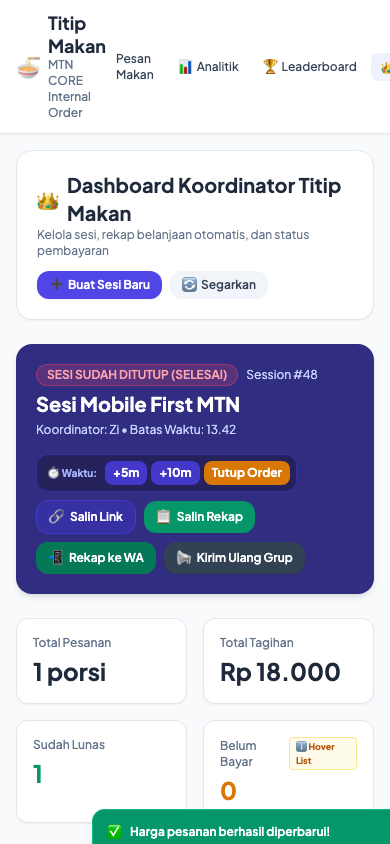
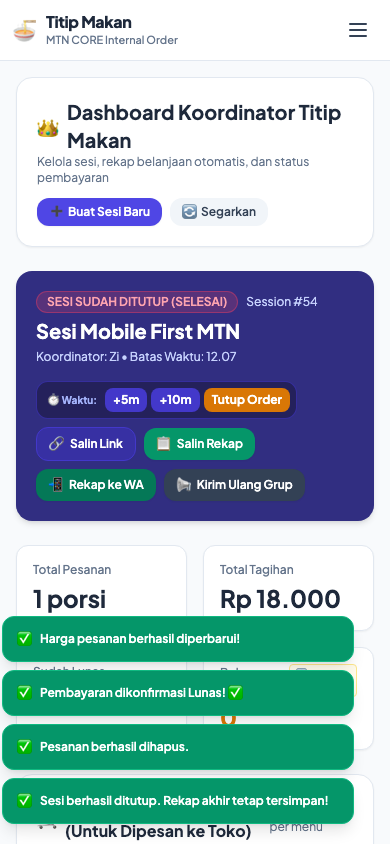
feat(navigation): implement responsive mobile hamburger menu and fix horizontal offset

diff --git a/src/titip_makan/templates/base.html b/src/titip_makan/templates/base.html
@@ -12,30 +12,96 @@
         body { font-family: 'Plus Jakarta Sans', sans-serif; }
     </style>
 </head>
-<body class="bg-slate-50 text-slate-900 min-h-screen flex flex-col">
-    <!-- Navigation Bar -->
-    <header class="bg-white border-b border-slate-200 sticky top-0 z-30 shadow-sm">
-        <div class="max-w-4xl mx-auto px-4 py-3 flex items-center justify-between">
-            <a href="/" class="flex items-center space-x-2">
-                <span class="text-2xl">🍜</span>
-                <div>
-                    <h1 class="font-bold text-lg leading-tight text-slate-800">Titip Makan</h1>
-                    <p class="text-xs text-slate-500 font-medium">MTN CORE Internal Order</p>
+<body class="bg-slate-50 text-slate-900 min-h-screen flex flex-col overflow-x-hidden">
+    <!-- Top Navigation Bar -->
+    <header class="bg-white/95 backdrop-blur-md border-b border-slate-200 sticky top-0 z-30 shadow-xs">
+        <div class="max-w-4xl mx-auto px-3 sm:px-4 py-2.5 sm:py-3 flex items-center justify-between gap-2">
+            <!-- Brand / Logo -->
+            <a href="/" class="flex items-center space-x-2.5 min-w-0 group" aria-label="Beranda Titip Makan">
+                <span class="text-2xl sm:text-3xl flex-none transform group-hover:scale-105 transition-transform">🍜</span>
+                <div class="min-w-0">
+                    <h1 class="font-extrabold text-base sm:text-lg leading-tight text-slate-800 truncate tracking-tight">Titip Makan</h1>
+                    <p class="text-[11px] sm:text-xs text-slate-500 font-medium truncate">MTN CORE Internal Order</p>
                 </div>
             </a>
-            <div class="flex items-center space-x-1 sm:space-x-2 text-xs sm:text-sm font-medium">
-                <a href="/" class="px-2.5 py-1.5 rounded-lg hover:bg-slate-100 text-slate-700 transition">Pesan Makan</a>
-                <a href="/history" class="px-2.5 py-1.5 rounded-lg hover:bg-slate-100 text-slate-700 transition flex items-center gap-1">
-                    <span>📊</span> <span class="hidden sm:inline">Riwayat &</span> Analitik
+
+            <!-- Desktop Navigation Menu (Visible on md and above) -->
+            <nav class="hidden md:flex items-center space-x-1 sm:space-x-1.5 text-xs sm:text-sm font-medium flex-none" aria-label="Navigasi Utama">
+                <a href="/" id="nav-pesan" class="nav-item px-3 py-1.5 rounded-lg hover:bg-slate-100 text-slate-700 transition flex items-center gap-1.5">
+                    <span>🍜</span> <span>Pesan Makan</span>
                 </a>
-                <a href="/leaderboard" class="px-2.5 py-1.5 rounded-lg hover:bg-slate-100 text-slate-700 transition flex items-center gap-1">
-                    <span>🏆</span> Leaderboard
+                <a href="/history" id="nav-history" class="nav-item px-3 py-1.5 rounded-lg hover:bg-slate-100 text-slate-700 transition flex items-center gap-1.5">
+                    <span>📊</span> <span>Riwayat & Analitik</span>
                 </a>
-                <a href="/coordinator" class="px-2.5 py-1.5 rounded-lg bg-indigo-50 text-indigo-600 hover:bg-indigo-100 transition flex items-center gap-1">
-                    <span>👑</span> Koordinator
+                <a href="/leaderboard" id="nav-leaderboard" class="nav-item px-3 py-1.5 rounded-lg hover:bg-slate-100 text-slate-700 transition flex items-center gap-1.5">
+                    <span>🏆</span> <span>Leaderboard</span>
                 </a>
+                <a href="/coordinator" id="nav-coordinator" class="nav-item px-3 py-1.5 rounded-lg bg-indigo-50 text-indigo-600 hover:bg-indigo-100 transition flex items-center gap-1.5 font-semibold">
+                    <span>👑</span> <span>Koordinator</span>
+                </a>
+            </nav>
+
+            <!-- Mobile Hamburger Toggle Button (Visible on screens < md) -->
+            <div class="flex items-center md:hidden flex-none">
+                <button id="mobile-menu-btn" type="button" class="inline-flex items-center justify-center p-2 rounded-xl text-slate-700 hover:text-slate-900 hover:bg-slate-100 focus:outline-none focus:ring-2 focus:ring-indigo-500 transition-colors" aria-label="Buka Menu Navigasi" aria-expanded="false" aria-controls="mobile-menu">
+                    <!-- Hamburger 3-bar icon -->
+                    <svg id="menu-icon-bars" class="w-6 h-6" fill="none" stroke="currentColor" viewBox="0 0 24 24">
+                        <path stroke-linecap="round" stroke-linejoin="round" stroke-width="2" d="M4 6h16M4 12h16M4 18h16"></path>
+                    </svg>
+                    <!-- Close (X) icon -->
+                    <svg id="menu-icon-close" class="w-6 h-6 hidden" fill="none" stroke="currentColor" viewBox="0 0 24 24">
+                        <path stroke-linecap="round" stroke-linejoin="round" stroke-width="2" d="M6 18L18 6M6 6l12 12"></path>
+                    </svg>
+                </button>
             </div>
         </div>
+
+        <!-- Collapsible Mobile Navigation Menu -->
+        <nav id="mobile-menu" class="hidden md:hidden border-t border-slate-100 bg-white/95 backdrop-blur-md px-3 sm:px-4 py-2 space-y-1.5 shadow-lg transition-all" aria-label="Navigasi Mobile">
+            <a href="/" class="mobile-nav-item flex items-center justify-between p-2.5 rounded-xl text-slate-700 hover:bg-slate-100 active:bg-slate-200 transition">
+                <div class="flex items-center gap-3">
+                    <span class="text-xl p-1.5 bg-slate-100 rounded-lg">🍜</span>
+                    <div>
+                        <div class="font-bold text-sm text-slate-800">Pesan Makan</div>
+                        <div class="text-[11px] text-slate-500">Pilih menu & kirim pesanan aktif</div>
+                    </div>
+                </div>
+                <span class="text-slate-400 text-sm font-bold">›</span>
+            </a>
+
+            <a href="/history" class="mobile-nav-item flex items-center justify-between p-2.5 rounded-xl text-slate-700 hover:bg-slate-100 active:bg-slate-200 transition">
+                <div class="flex items-center gap-3">
+                    <span class="text-xl p-1.5 bg-slate-100 rounded-lg">📊</span>
+                    <div>
+                        <div class="font-bold text-sm text-slate-800">Riwayat & Analitik</div>
+                        <div class="text-[11px] text-slate-500">Statistik pengeluaran & arsip sesi</div>
+                    </div>
+                </div>
+                <span class="text-slate-400 text-sm font-bold">›</span>
+            </a>
+
+            <a href="/leaderboard" class="mobile-nav-item flex items-center justify-between p-2.5 rounded-xl text-slate-700 hover:bg-slate-100 active:bg-slate-200 transition">
+                <div class="flex items-center gap-3">
+                    <span class="text-xl p-1.5 bg-slate-100 rounded-lg">🏆</span>
+                    <div>
+                        <div class="font-bold text-sm text-slate-800">Leaderboard & Hall of Fame</div>
+                        <div class="text-[11px] text-slate-500">Ranking Sultan & apresiasi tim</div>
+                    </div>
+                </div>
+                <span class="text-slate-400 text-sm font-bold">›</span>
+            </a>
+
+            <a href="/coordinator" class="mobile-nav-item flex items-center justify-between p-2.5 rounded-xl bg-gradient-to-r from-indigo-50 to-purple-50 text-indigo-800 hover:from-indigo-100 hover:to-purple-100 border border-indigo-100/80 transition">
+                <div class="flex items-center gap-3">
+                    <span class="text-xl p-1.5 bg-indigo-100 text-indigo-700 rounded-lg shadow-xs">👑</span>
+                    <div>
+                        <div class="font-bold text-sm text-indigo-950">Panel Koordinator</div>
+                        <div class="text-[11px] text-indigo-600">Buka/tutup sesi, hitung & set lunas</div>
+                    </div>
+                </div>
+                <span class="text-indigo-400 text-sm font-bold">›</span>
+            </a>
+        </nav>
     </header>
 
     <!-- Main Content -->
@@ -73,6 +139,7 @@
             }, 3000);
         }
     </script>
+    <script src="/static/js/nav.js"></script>
 
     {% block scripts %}{% endblock %}
 </body>

diff --git a/src/titip_makan/static/js/nav.js b/src/titip_makan/static/js/nav.js
@@ -1,0 +1,92 @@
+/**
+ * Navigation Bar Controller
+ * Handles mobile hamburger toggle, keyboard interactions, outside-click dismissal,
+ * and active navigation link state highlighting.
+ */
+document.addEventListener('DOMContentLoaded', () => {
+    const currentPath = window.location.pathname.replace(/\/$/, '') || '/';
+
+    // 1. Highlight Active Nav Items
+    const desktopLinks = document.querySelectorAll('.nav-item');
+    desktopLinks.forEach(link => {
+        const href = (link.getAttribute('href') || '').replace(/\/$/, '') || '/';
+        const isCoordinator = href === '/coordinator';
+        const isActive = href === '/' ? currentPath === '/' : currentPath.startsWith(href);
+
+        if (isActive) {
+            if (isCoordinator) {
+                link.className = 'nav-item px-3 py-1.5 rounded-lg bg-indigo-600 text-white font-semibold shadow-xs transition flex items-center gap-1.5';
+            } else {
+                link.className = 'nav-item px-3 py-1.5 rounded-lg bg-slate-100 text-indigo-600 font-bold shadow-xs transition flex items-center gap-1.5';
+            }
+        }
+    });
+
+    const mobileLinks = document.querySelectorAll('.mobile-nav-item');
+    mobileLinks.forEach(link => {
+        const href = (link.getAttribute('href') || '').replace(/\/$/, '') || '/';
+        const isActive = href === '/' ? currentPath === '/' : currentPath.startsWith(href);
+
+        if (isActive) {
+            link.classList.add('bg-indigo-50/70', 'border-l-4', 'border-indigo-600');
+            const title = link.querySelector('.font-bold') || link.querySelector('.font-semibold');
+            if (title) {
+                title.classList.remove('text-slate-800');
+                title.classList.add('text-indigo-700');
+            }
+        }
+    });
+
+    // 2. Mobile Menu Toggle Controller
+    const menuBtn = document.getElementById('mobile-menu-btn');
+    const mobileMenu = document.getElementById('mobile-menu');
+    const iconBars = document.getElementById('menu-icon-bars');
+    const iconClose = document.getElementById('menu-icon-close');
+
+    if (menuBtn && mobileMenu) {
+        const toggleMenu = (forceClose = false) => {
+            const isCurrentlyOpen = menuBtn.getAttribute('aria-expanded') === 'true';
+            const shouldOpen = forceClose ? false : !isCurrentlyOpen;
+
+            menuBtn.setAttribute('aria-expanded', shouldOpen ? 'true' : 'false');
+            if (shouldOpen) {
+                mobileMenu.classList.remove('hidden');
+                iconBars?.classList.add('hidden');
+                iconClose?.classList.remove('hidden');
+            } else {
+                mobileMenu.classList.add('hidden');
+                iconBars?.classList.remove('hidden');
+                iconClose?.classList.add('hidden');
+            }
+        };
+
+        menuBtn.addEventListener('click', (e) => {
+            e.stopPropagation();
+            toggleMenu();
+        });
+
+        // Close when clicking outside of menu and toggle button
+        document.addEventListener('click', (e) => {
+            if (!mobileMenu.classList.contains('hidden')) {
+                if (!mobileMenu.contains(e.target) && !menuBtn.contains(e.target)) {
+                    toggleMenu(true);
+                }
+            }
+        });
+
+        // Close on Escape key press
+        document.addEventListener('keydown', (e) => {
+            if (e.key === 'Escape' && !mobileMenu.classList.contains('hidden')) {
+                toggleMenu(true);
+                menuBtn.focus();
+            }
+        });
+
+        // Close when any mobile nav item is clicked
+        mobileLinks.forEach(item => {
+            item.addEventListener('click', () => {
+                toggleMenu(true);
+            });
+        });
+    }
+});

diff --git a/tests/e2e/test_responsive_navigation_e2e.py b/tests/e2e/test_responsive_navigation_e2e.py
@@ -1,0 +1,100 @@
+import socket
+import threading
+import time
+import pytest
+import uvicorn
+from playwright.async_api import async_playwright
+from titip_makan.main import app
+
+def get_free_port():
+    with socket.socket(socket.AF_INET, socket.SOCK_STREAM) as s:
+        s.bind(('127.0.0.1', 0))
+        return s.getsockname()[1]
+
+@pytest.fixture(scope="module")
+def live_server():
+    port = get_free_port()
+    config = uvicorn.Config(app, host="127.0.0.1", port=port, log_level="warning")
+    server = uvicorn.Server(config)
+    thread = threading.Thread(target=server.run, daemon=True)
+    thread.start()
+    while not server.started:
+        time.sleep(0.05)
+    yield f"http://127.0.0.1:{port}"
+    server.should_exit = True
+    thread.join(timeout=2)
+
+@pytest.mark.asyncio
+async def test_responsive_navigation_desktop_and_mobile(live_server):
+    async with async_playwright() as p:
+        browser = await p.chromium.launch(headless=True)
+
+        # ----------------------------------------------------
+        # 1. Desktop Viewport (1200 x 800)
+        # ----------------------------------------------------
+        desktop_ctx = await browser.new_context(viewport={"width": 1200, "height": 800})
+        desktop_page = await desktop_ctx.new_page()
+        await desktop_page.goto(live_server)
+        await desktop_page.wait_for_load_state("networkidle")
+
+        # Desktop nav should be visible, mobile menu button should not be visible
+        assert await desktop_page.locator("#nav-pesan").is_visible()
+        assert await desktop_page.locator("#nav-history").is_visible()
+        assert await desktop_page.locator("#nav-leaderboard").is_visible()
+        assert await desktop_page.locator("#nav-coordinator").is_visible()
+        assert not await desktop_page.locator("#mobile-menu-btn").is_visible()
+        assert not await desktop_page.locator("#mobile-menu").is_visible()
+
+        # Check no horizontal overflow on desktop
+        scroll_w = await desktop_page.evaluate("document.documentElement.scrollWidth")
+        client_w = await desktop_page.evaluate("document.documentElement.clientWidth")
+        assert scroll_w <= client_w
+
+        await desktop_ctx.close()
+
+        # ----------------------------------------------------
+        # 2. Mobile Viewport (390 x 844 - iPhone / Android size)
+        # ----------------------------------------------------
+        mobile_ctx = await browser.new_context(viewport={"width": 390, "height": 844}, is_mobile=True, has_touch=True)
+        mobile_page = await mobile_ctx.new_page()
+        await mobile_page.goto(live_server)
+        await mobile_page.wait_for_load_state("networkidle")
+
+        # Mobile menu button should be visible, desktop nav should NOT be visible
+        assert await mobile_page.locator("#mobile-menu-btn").is_visible()
+        assert not await mobile_page.locator("#nav-pesan").is_visible()
+        assert not await mobile_page.locator("#mobile-menu").is_visible()
+
+        # Verify NO horizontal overflow on mobile!
+        scroll_w_m = await mobile_page.evaluate("document.documentElement.scrollWidth")
+        client_w_m = await mobile_page.evaluate("document.documentElement.clientWidth")
+        assert scroll_w_m <= client_w_m, f"Mobile page has horizontal overflow: scrollWidth {scroll_w_m} > clientWidth {client_w_m}"
+
+        # Click hamburger button -> mobile menu opens
+        await mobile_page.click("#mobile-menu-btn")
+        await mobile_page.wait_for_timeout(200)
+        assert await mobile_page.locator("#mobile-menu").is_visible()
+        assert await mobile_page.locator("#menu-icon-close").is_visible()
+        assert not await mobile_page.locator("#menu-icon-bars").is_visible()
+        assert await mobile_page.get_attribute("#mobile-menu-btn", "aria-expanded") == "true"
+
+        # Click again -> mobile menu closes
+        await mobile_page.click("#mobile-menu-btn")
+        await mobile_page.wait_for_timeout(200)
+        assert not await mobile_page.locator("#mobile-menu").is_visible()
+        assert await mobile_page.get_attribute("#mobile-menu-btn", "aria-expanded") == "false"
+
+        # Reopen and test navigation to Leaderboard
+        await mobile_page.click("#mobile-menu-btn")
+        await mobile_page.wait_for_timeout(200)
+        await mobile_page.click('#mobile-menu a[href="/leaderboard"]')
+        await mobile_page.wait_for_load_state("networkidle")
+        assert "/leaderboard" in mobile_page.url
+
+        # Check Leaderboard page mobile layout has no overflow
+        scroll_w_lb = await mobile_page.evaluate("document.documentElement.scrollWidth")
+        client_w_lb = await mobile_page.evaluate("document.documentElement.clientWidth")
+        assert scroll_w_lb <= client_w_lb, f"Leaderboard page has horizontal overflow: {scroll_w_lb} > {client_w_lb}"
+
+        await mobile_ctx.close()
+        await browser.close()

diff --git a/tests/integration/test_responsive_navigation.py b/tests/integration/test_responsive_navigation.py
@@ -1,0 +1,44 @@
+import pytest
+from httpx import AsyncClient, ASGITransport
+from titip_makan.main import app
+from titip_makan.core.database import get_db
+
+@pytest.mark.asyncio
+async def test_responsive_navigation_elements_in_all_routes(db_session):
+    """
+    TDD Test: Verify that all rendered HTML pages include:
+    1. A responsive mobile hamburger toggle button (#mobile-menu-btn).
+    2. A collapsible mobile navigation container (#mobile-menu) hidden on md screens.
+    3. Desktop navigation hidden on mobile (hidden md:flex).
+    4. Links to all core sections: /, /history, /leaderboard, /coordinator.
+    """
+    async def override_get_db():
+        yield db_session
+
+    app.dependency_overrides[get_db] = override_get_db
+
+    transport = ASGITransport(app=app)
+    async with AsyncClient(transport=transport, base_url="http://test") as client:
+        routes_to_test = ["/", "/history", "/leaderboard", "/coordinator"]
+
+        for route in routes_to_test:
+            resp = await client.get(route)
+            assert resp.status_code == 200, f"Failed loading {route}"
+            html = resp.text
+
+            # Mobile hamburger button assertions
+            assert 'id="mobile-menu-btn"' in html, f"Missing #mobile-menu-btn on {route}"
+            assert 'id="mobile-menu"' in html, f"Missing #mobile-menu on {route}"
+            assert 'id="menu-icon-bars"' in html, f"Missing #menu-icon-bars on {route}"
+            assert 'id="menu-icon-close"' in html, f"Missing #menu-icon-close on {route}"
+
+            # Desktop navigation container assertions
+            assert 'hidden md:flex' in html, f"Desktop nav should be hidden on mobile (hidden md:flex) on {route}"
+
+            # Navigation links assertions
+            assert 'href="/"' in html, f"Missing home link on {route}"
+            assert 'href="/history"' in html, f"Missing history link on {route}"
+            assert 'href="/leaderboard"' in html, f"Missing leaderboard link on {route}"
+            assert 'href="/coordinator"' in html, f"Missing coordinator link on {route}"
+
+    app.dependency_overrides.clear()
